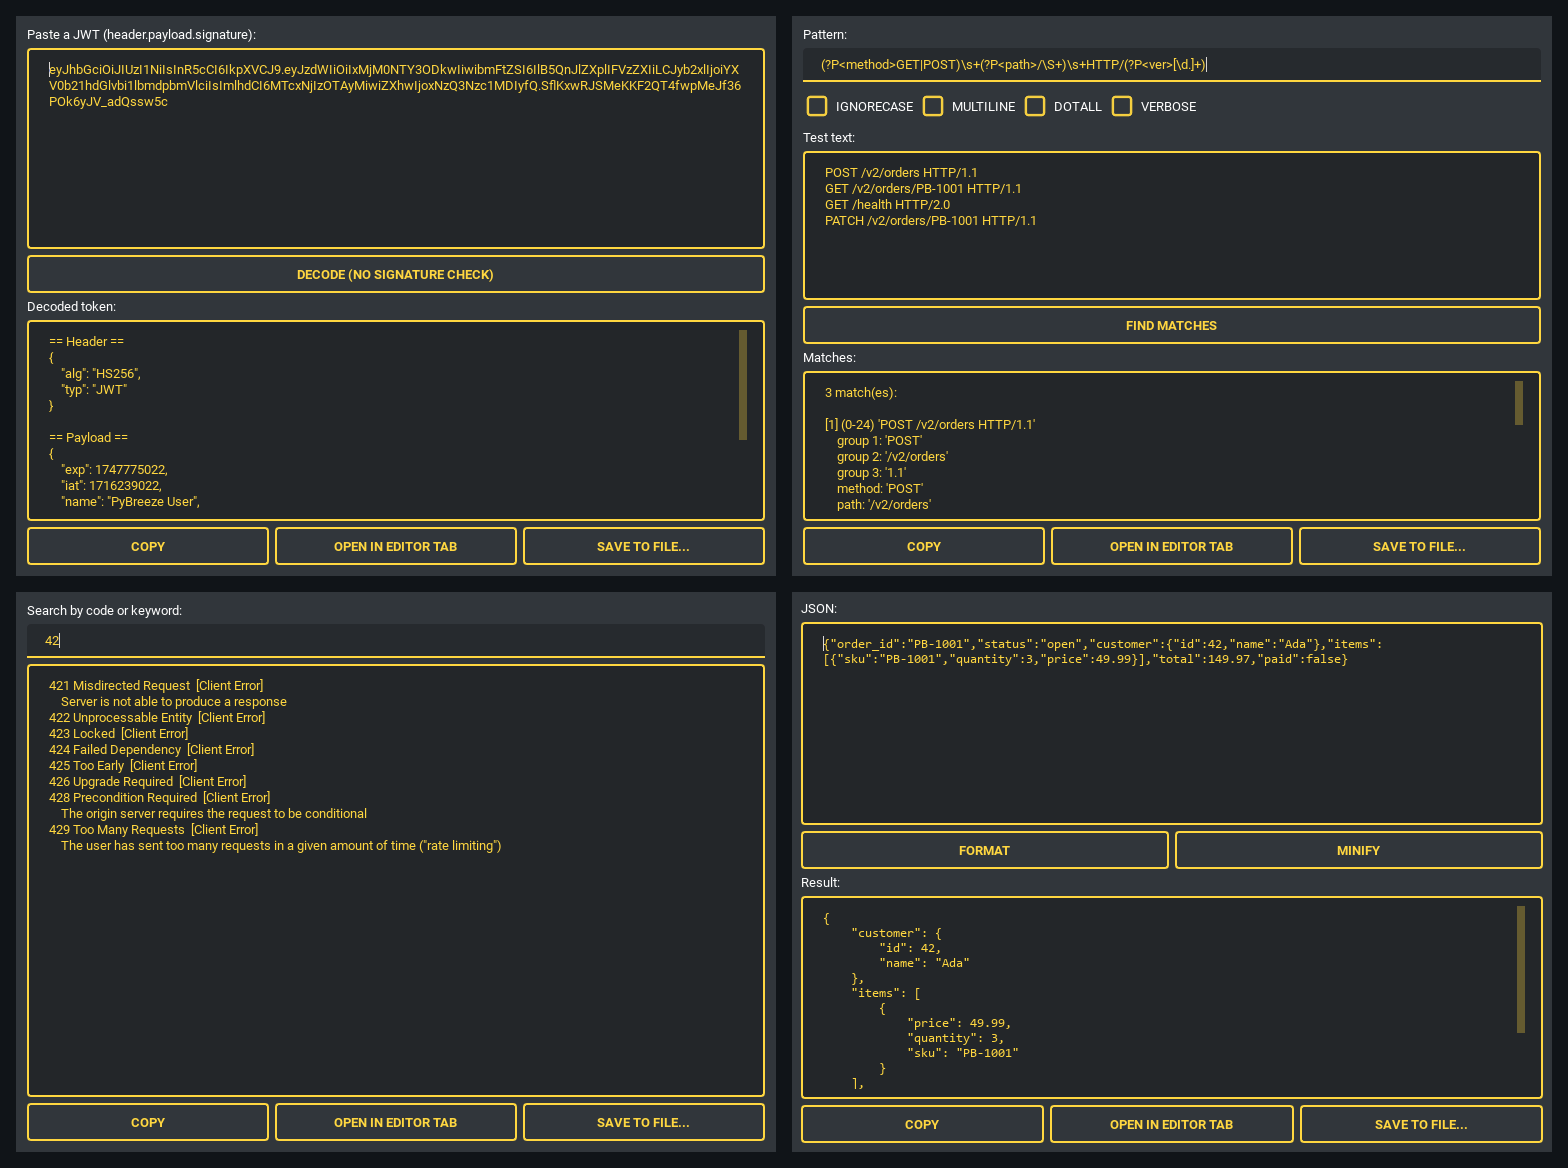
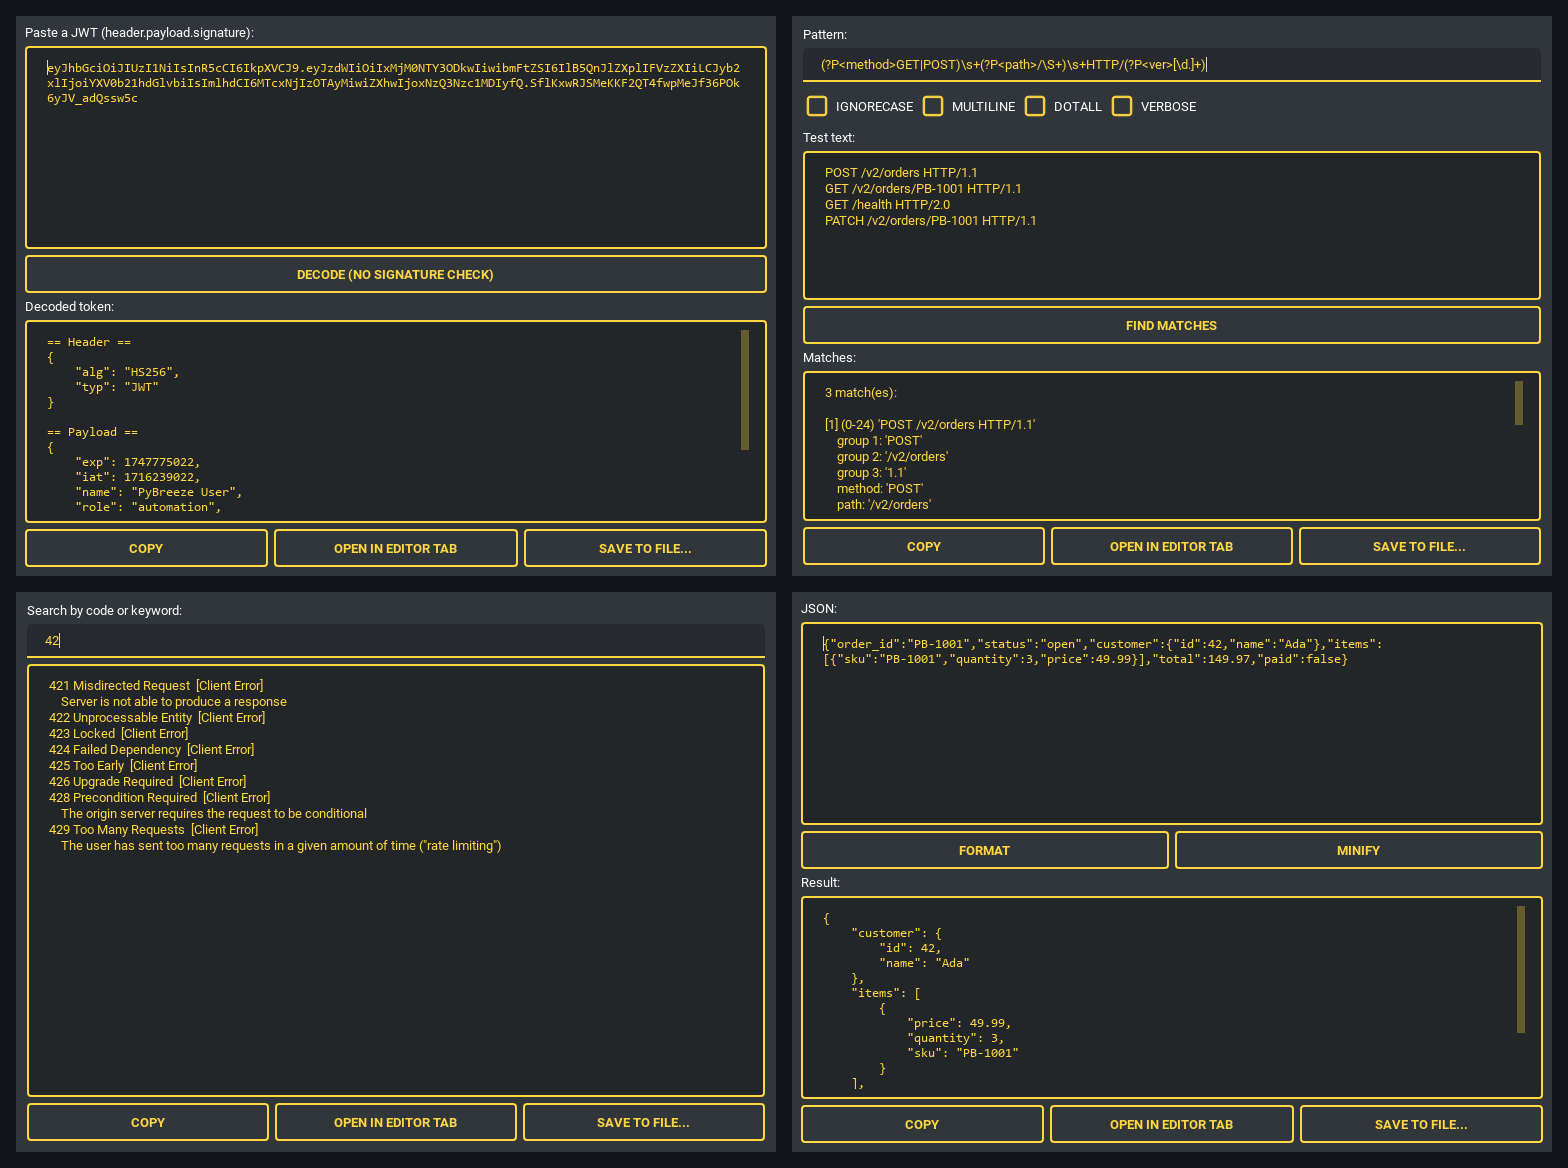
Show the JWT, Query and URL tools' boxes in the fixed-pitch font

diff --git a/pybreeze/pybreeze_ui/tools_gui/query_json_gui.py b/pybreeze/pybreeze_ui/tools_gui/query_json_gui.py
@@ -12,6 +12,7 @@ from pybreeze.utils.exception.exceptions import QueryConvertException
 from pybreeze.utils.logging.logger import pybreeze_logger
 from pybreeze.utils.query_tools.query_convert import json_to_query, query_to_json
 from pybreeze.pybreeze_ui.error_text import error_text
+from pybreeze.pybreeze_ui.fixed_pitch import use_fixed_pitch_font
 
 
 class QueryJsonGUI(QWidget):
@@ -29,6 +30,7 @@ class QueryJsonGUI(QWidget):
         self.input_edit = QTextEdit()
         self.input_edit.setPlaceholderText(word.get("query_json_input_placeholder"))
         self.input_edit.setAcceptRichText(False)
+        use_fixed_pitch_font(self.input_edit)
 
         self.to_json_button = QPushButton(word.get("query_json_to_json_button"))
         self.to_json_button.clicked.connect(self.convert_to_json)
@@ -42,6 +44,7 @@ class QueryJsonGUI(QWidget):
         self.output_label = QLabel(word.get("query_json_output_label"))
         self.output_edit = QTextEdit()
         self.output_edit.setReadOnly(True)
+        use_fixed_pitch_font(self.output_edit)
 
         self.actions = OutputActions(
             self, self.output_edit, main_window=main_window,

diff --git a/pybreeze/pybreeze_ui/tools_gui/url_builder_gui.py b/pybreeze/pybreeze_ui/tools_gui/url_builder_gui.py
@@ -12,6 +12,7 @@ from pybreeze.utils.exception.exceptions import UrlConvertException
 from pybreeze.utils.logging.logger import pybreeze_logger
 from pybreeze.utils.url_tools.url_convert import json_to_url, url_to_json
 from pybreeze.pybreeze_ui.error_text import error_text
+from pybreeze.pybreeze_ui.fixed_pitch import use_fixed_pitch_font
 
 
 class UrlBuilderGUI(QWidget):
@@ -30,6 +31,7 @@ class UrlBuilderGUI(QWidget):
         self.input_edit = QTextEdit()
         self.input_edit.setPlaceholderText(word.get("url_builder_input_placeholder"))
         self.input_edit.setAcceptRichText(False)
+        use_fixed_pitch_font(self.input_edit)
 
         self.to_json_button = QPushButton(word.get("url_builder_to_json_button"))
         self.to_json_button.clicked.connect(self.convert_to_json)
@@ -43,6 +45,7 @@ class UrlBuilderGUI(QWidget):
         self.output_label = QLabel(word.get("url_builder_output_label"))
         self.output_edit = QTextEdit()
         self.output_edit.setReadOnly(True)
+        use_fixed_pitch_font(self.output_edit)
 
         self.actions = OutputActions(
             self, self.output_edit, main_window=main_window,

diff --git a/test/test_utils/test_code_boxes_fixed_pitch.py b/test/test_utils/test_code_boxes_fixed_pitch.py
@@ -53,6 +53,21 @@ def _cot_code_review():
     return CoTCodeReviewGUI()
 
 
+def _jwt_decoder():
+    from pybreeze.pybreeze_ui.tools_gui.jwt_decoder_gui import JwtDecoderGUI
+    return JwtDecoderGUI()
+
+
+def _query_json():
+    from pybreeze.pybreeze_ui.tools_gui.query_json_gui import QueryJsonGUI
+    return QueryJsonGUI()
+
+
+def _url_builder():
+    from pybreeze.pybreeze_ui.tools_gui.url_builder_gui import UrlBuilderGUI
+    return UrlBuilderGUI()
+
+
 def _mermaid_import():
     from pybreeze.pybreeze_ui.diagram_editor.diagram_editor_widget import MermaidImportDialog
     return MermaidImportDialog()
@@ -63,6 +78,9 @@ CODE_BOXES = [
     (_curl, "input_edit"), (_curl, "output_edit"),
     (_har, "output_edit"),
     (_json_format, "input_edit"), (_json_format, "output_edit"),
+    (_jwt_decoder, "input_edit"), (_jwt_decoder, "output_edit"),
+    (_query_json, "input_edit"), (_query_json, "output_edit"),
+    (_url_builder, "input_edit"), (_url_builder, "output_edit"),
     (_ai_code_review, "code_input"),
     (_cot_code_review, "code_paste_area"),
     (_mermaid_import, "_editor"),

diff --git a/pybreeze/pybreeze_ui/tools_gui/jwt_decoder_gui.py b/pybreeze/pybreeze_ui/tools_gui/jwt_decoder_gui.py
@@ -17,6 +17,7 @@ from pybreeze.utils.jwt_tools.jwt_decoder import (
 )
 from pybreeze.utils.logging.logger import pybreeze_logger
 from pybreeze.pybreeze_ui.error_text import error_text
+from pybreeze.pybreeze_ui.fixed_pitch import use_fixed_pitch_font
 
 
 def build_decoded_text(decoded: DecodedJwt) -> str:
@@ -57,6 +58,7 @@ class JwtDecoderGUI(QWidget):
         self.input_edit = QTextEdit()
         self.input_edit.setPlaceholderText(word.get("jwt_decoder_input_placeholder"))
         self.input_edit.setAcceptRichText(False)
+        use_fixed_pitch_font(self.input_edit)
 
         self.decode_button = QPushButton(word.get("jwt_decoder_decode_button"))
         self.decode_button.clicked.connect(self.decode)
@@ -64,6 +66,7 @@ class JwtDecoderGUI(QWidget):
         self.output_label = QLabel(word.get("jwt_decoder_output_label"))
         self.output_edit = QTextEdit()
         self.output_edit.setReadOnly(True)
+        use_fixed_pitch_font(self.output_edit)
 
         self.actions = OutputActions(
             self, self.output_edit, main_window=main_window,

diff --git a/docs/updates/2026-09-c.md b/docs/updates/2026-09-c.md
@@ -86,3 +86,13 @@ Continues [2026-09-b.md](2026-09-b.md), which passed the batch size limit. Index
 - **Docs**: `images/ssh_client.png` redone at 1180×640 under dark_amber with the new placeholder; `architecture_explore.md` (test count).
 - **Files**: `pybreeze/extend_multi_language/extend_english.py`, `pybreeze/extend_multi_language/extend_traditional_chinese.py`, `test/test_utils/test_language_parity.py`, `images/ssh_client.png`, `architecture_explore.md`
 - **Open items**: none.
+
+## U-20260925-10 · 2026-09-25 · JWT, Query and URL tools in the fixed-pitch font · #fix #tools #ui
+
+- **What**: U-20260924-314 put the code boxes of the tool tabs in the fixed-pitch font but left out three tools whose boxes hold the same kind of text: the JWT decoder (a token in, its header and payload as indented JSON out), Query ↔ JSON and the URL parser / builder (a query string or URL in, JSON out, and back). Their JSON lost its indentation's alignment in the proportional font.
+- **Change**: `JwtDecoderGUI`, `QueryJsonGUI` and `UrlBuilderGUI` call `use_fixed_pitch_font()` on their input and output boxes. The tools that show prose or a list (HTTP status, header and response analysis, hashes, timestamps, the regex matches) keep the interface font, as before.
+- **Tests**: `test_code_boxes_fixed_pitch.py` covers the six boxes; all failed before the change. With the three tools' widget tests, 113 pass.
+- **Result / numbers**: 2451 tests in 135 files. `ruff check` clean.
+- **Docs**: the JWT panel of `images/tools_montage_a.png` and the Query and URL panels of `images/tools_montage_b.png` redone under dark_amber at their sizes with the same content (the JWT rebuilt from the one shown, byte for byte).
+- **Files**: `pybreeze/pybreeze_ui/tools_gui/jwt_decoder_gui.py`, `pybreeze/pybreeze_ui/tools_gui/query_json_gui.py`, `pybreeze/pybreeze_ui/tools_gui/url_builder_gui.py`, `test/test_utils/test_code_boxes_fixed_pitch.py`, `images/tools_montage_a.png`, `images/tools_montage_b.png`, `architecture_explore.md`
+- **Open items**: none.

diff --git a/docs/updates/README.md b/docs/updates/README.md
@@ -58,6 +58,7 @@ In the same commit: delete the item from `progress.md`, add a `#done` entry here
 
 | ID | Date | Title | Tags | Batch |
 |---|---|---|---|---|
+| U-20260925-10 | 2026-09-25 | JWT, Query and URL tools in the fixed-pitch font | #fix #tools #ui | [2026-09-c](2026-09-c.md) |
 | U-20260925-09 | 2026-09-25 | No private address in the SSH host placeholder | #fix #ssh #i18n | [2026-09-c](2026-09-c.md) |
 | U-20260925-08 | 2026-09-25 | Say what to do with a PuTTY key instead of offering it | #fix #ssh #i18n #readme | [2026-09-c](2026-09-c.md) |
 | U-20260925-07 | 2026-09-25 | SSH and SFTP log in with a PKCS#8 private key | #feature #ssh | [2026-09-c](2026-09-c.md) |
@@ -412,4 +413,4 @@ In the same commit: delete the item from `progress.md`, add a `#done` entry here
 |---|---|---:|
 | [2026-09.md](2026-09.md) | 2026-09 | 218 |
 | [2026-09-b.md](2026-09-b.md) | 2026-09 | 120 |
-| [2026-09-c.md](2026-09-c.md) | 2026-09 | 9 |
+| [2026-09-c.md](2026-09-c.md) | 2026-09 | 10 |
